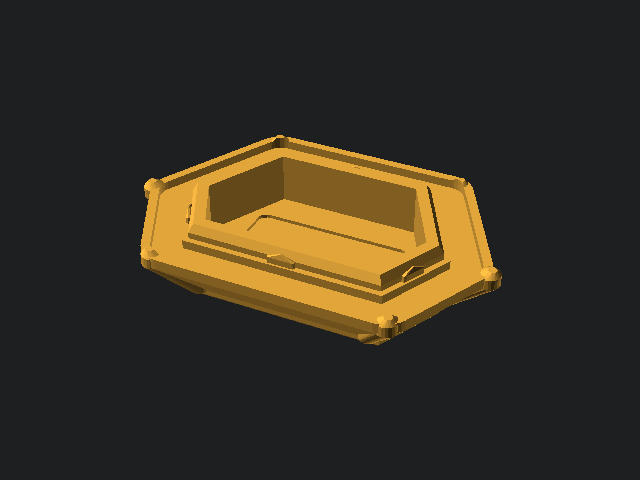
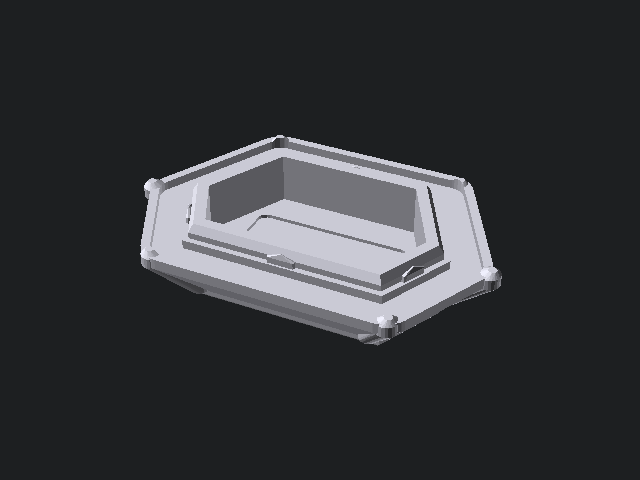
chore(print): add Tarnished Silver as the 6th spool, music box body, lid and key are silver

Changed region(s): [[0.2188, 0.2812, 0.7812, 0.7188]]

diff --git a/tools/prop-mockups/3d.html b/tools/prop-mockups/3d.html
@@ -201,7 +201,7 @@
   <div class="summary-bar">
     <div class="stat"><strong>44 STLs</strong><span>All verified watertight, 2-manifold, support-free</span></div>
     <div class="stat"><strong>&le; 180 &times; 180 mm</strong><span>Fits Bambu A1 Mini, Prusa MINI+, Ender 3</span></div>
-    <div class="stat"><strong>5 Spool Colours</strong><span>Iron, Brass, Mint, Bone, Wood</span></div>
+    <div class="stat"><strong>6 Spool Colours</strong><span>Iron, Brass, Mint, Bone, Wood, Silver</span></div>
     <div class="stat"><strong>0.4 mm Pockets</strong><span>Recessed 1:1 SVG stickers never peel at edges</span></div>
     <div class="stat"><strong>SG90 + ESP32</strong><span>Built-in servo cradles, keyed horn recesses &amp; DevKitC V4 mounts</span></div>
   </div>
@@ -261,17 +261,18 @@ const SPOOLS = {
   brass:      { name: "Antique Brass",    bg: "#d4a84b", fg: "#181209" },
   mint:       { name: "Ectoplasm Mint",   bg: "#5ce6b8", fg: "#092118" },
   bone:       { name: "Bone / Ivory",     bg: "#e8dec8", fg: "#1b181f" },
+  silver:     { name: "Tarnished Silver", bg: "#c9c9d4", fg: "#181820" },
   wood:       { name: "Warm Wood",        bg: "#422818", fg: "#f5eadc" },
 };
 
 const RELICS = [
-  ["relic-music-box",    "iron",   "44.9 × 27.4 × 27.9 mm", "Relic r1 (body): From-scratch Dark Iron gothic coffin casket with 41° faceted pedestal flare, 6 corner buttresses, continuous front arch keyhole shield, 38° open-diamond bat-wing crank key, 5-chime comb on flush bed, octagonal drum, bevel gear & Ø14.6 mm foot / 6 mm socket."],
-  ["relic-music-box-lid","brass",  "42.1 × 28.5 × 9.0 mm",  "Relic r1 (lid): Contrasting Antique Brass mansard coffin lid printed upside-down with V-carved crown inlay, overhanging drip skirt + 6 gargoyle corner eaves, 4-rib slip-fit collar, finger-lift coves & underside 18.2×9.2 mm score pocket."],
+  ["relic-music-box",    "silver",   "44.9 × 27.4 × 27.9 mm", "Relic r1 (body): From-scratch Tarnished Silver gothic coffin casket with 41° faceted pedestal flare, 6 corner buttresses, continuous front arch keyhole shield, 38° open-diamond bat-wing crank key, 5-chime comb on flush bed, octagonal drum, bevel gear & Ø14.6 mm foot / 6 mm socket."],
+  ["relic-music-box-lid","silver",  "42.1 × 28.5 × 9.0 mm",  "Relic r1 (lid): Tarnished Silver mansard coffin lid printed upside-down with V-carved crown inlay, overhanging drip skirt + 6 gargoyle corner eaves, 4-rib slip-fit collar, finger-lift coves & underside 18.2×9.2 mm score pocket."],
   ["relic-wax-hand",     "bone",   "24.6 × 17.6 × 51.4 mm", "Relic r2: Sculpted anatomical palmistry hand with blended tendons, MCP knuckles, segmented fingers, fingernails, palm pocket & centre socket."],
   ["relic-locket",       "brass",  "31.5 × 18.0 × 50.0 mm", "Relic r3 (back bowl): Hinged oval locket stand with vaulted keepsake hollow, lower Ø2.15 mm filament hinge knuckle, clasp catch & centre socket."],
   ["relic-locket-lid",   "brass",  "33.7 × 35.4 × 5.3 mm",  "Relic r3 (front door): Separate hinged cameo lid with crooked gothic crown crest, coaxial Ø2.15 mm filament hinge bore, beaded pearls, snap-clasp & 16×22 mm cameo pocket."],
   ["relic-planchette",   "wood",   "28.8 × 18.4 × 43.5 mm", "Relic r4: Heart-shaped spirit-board pointer with twin crooked gothic upper horn curls pointing down on a short post, with magnifier oculus & 6 mm centre socket."],
-  ["relic-silver-key",   "brass" , "20.2 × 18.0 × 46.7 mm", "Relic r5: Gothic skeleton key with diamond pierced bow, shoulder thorns, skewed crown spire, collared stem, notched ward bit & centre connector."],
+  ["relic-silver-key",   "silver", "20.2 × 18.0 × 46.7 mm", "Relic r5: Gothic skeleton key with diamond pierced bow, shoulder thorns, skewed crown spire, collared stem, notched ward bit & centre connector."],
   ["relic-bell",         "brass",  "28.0 × 28.0 × 47.6 mm", "Relic r6: Flared Victorian service bell with solid flared body, turned handle & centre connector."],
   ["relic-token-pocket", "iron",   "43.6 × 43.6 × 9.0 mm",  "Universal 40×40 mm rounded token base with 4 splayed corner iron lug ears, rim V-notches, 0.4 mm top QR sticker pocket & Ø5.6 mm centre peg for the Relics' sockets (punch a 6 mm hole in the QR sticker)."],
 ];

diff --git a/tools/prop-mockups/viewer.html b/tools/prop-mockups/viewer.html
@@ -83,12 +83,13 @@ const STL_BASE = new URLSearchParams(location.search).get('stl') || (location.pa
 // Reference models (not printed) live next to the STL folder: print/reference/ in the repo, reference/ on the lab.
 const REF_BASE = location.pathname.includes('/tools/') ? '../../print/reference/' : 'reference/';
 
-// The 5 print spools.
+// The 6 print spools.
 const SPOOLS = {
   iron:       { name: 'Dark Iron',        hex: '#262229' },
   brass:      { name: 'Antique Brass',    hex: '#d4a84b' },
   mint:       { name: 'Ectoplasm Mint',   hex: '#5ce6b8' },
   bone:       { name: 'Bone / Ivory',     hex: '#e8dec8' },
+  silver:     { name: 'Tarnished Silver', hex: '#c9c9d4' },
   wood:       { name: 'Warm Wood',        hex: '#422818' },
 };
 const KIND = { M: 'Mechanical: it moves', E: 'Electrical: it holds electronics', S: 'Static: no moving or electronic parts', R: 'Reference model: shown for comparison, not printed' };
@@ -98,13 +99,13 @@ const G0 = 'Core game pieces', G1 = '#1 Ghost in the box', G3 = '#3 Haunt needle
       G9 = '#9 Curtain reveal', G12 = '#12 Rattle bats', G15 = '#15 Relic vault', G20 = '#20 Cut wires board', GR = 'Reference (not printed)',
       GX = 'Stand-alone figures';
 const PARTS = [
-  ['relic-music-box',   'Relic r1 music box',      G0, 'iron',       'S', 1],
-  ['relic-music-box-lid','Relic r1 music box lid', G0, 'brass',      'S', 1],
+  ['relic-music-box',   'Relic r1 music box',      G0, 'silver',      'S', 1],
+  ['relic-music-box-lid','Relic r1 music box lid', G0, 'silver',      'S', 1],
   ['relic-wax-hand',    'Relic r2 wax hand',       G0, 'bone',       'S', 1],
   ['relic-locket',      'Relic r3 locket',         G0, 'brass',      'S', 1],
   ['relic-locket-lid',  'Relic r3 locket lid',     G0, 'brass',      'S', 1],
   ['relic-planchette',  'Relic r4 planchette',     G0, 'wood',       'S', 1],
-  ['relic-silver-key',  'Relic r5 silver key',     G0, 'brass',     'S', 1],
+  ['relic-silver-key',  'Relic r5 silver key',     G0, 'silver',    'S', 1],
   ['relic-bell',        'Relic r6 bell',           G0, 'brass',      'S', 1],
   ['relic-token-pocket','Relic Token base',        G0, 'iron',       'S', 6],
   ['pyramid-holder',    'Pyramid holder',          G0, 'iron',       'S', 1],

diff --git a/print/README.md b/print/README.md
@@ -24,15 +24,16 @@ Every model in `print/scad/` and `print/stl/` is authored to print cleanly on a 
 
 ## 2. Filament & Preview Palette
 
-The 45-piece collection prints from **5 PLA spools**: Dark Iron, Antique Brass, Ectoplasm Mint, Bone / Ivory and Warm Wood. The six Suspect standees are all Bone; their seat colours (`s1`–`s6`) go on with paint pens or the optional name strip.
+The 45-piece collection prints from **6 PLA spools**: Dark Iron, Antique Brass, Ectoplasm Mint, Bone / Ivory, Warm Wood and Tarnished Silver. The six Suspect standees are all Bone; their seat colours (`s1`–`s6`) go on with paint pens or the optional name strip.
 
 | Spool Name | Role / `design/tokens.json` Match | Hex | Recommended Filament | Used For |
 |---|---|---|---|---|
-| **Dark Iron** | `ink` (`#0b0d10`) | `#262229` | Matte Charcoal / Galaxy Black PLA | Music box body (`r1`), dial plate, 2-seat flipper plinth, curtain rail & pulley, curtain panels (#9), bat mobile, relic tray, cut-wires panel, pyramid holder, relic token pocket, lever arm |
-| **Antique Brass** | `lantern` (`#e0a43a`) | `#d4a84b` | Silk Brass / Antique Gold PLA | Music box lid (`r1`), locket body & lid (`r3`), séance bell (`r6`), dial bezel & needle (#3), stage screen bezel (#9), chandelier (#12), vault clasp (#15), terminal blocks (#20), silver skeleton key (`r5`), MAX tab (#3), resistor plug heads (#20) |
+| **Dark Iron** | `ink` (`#0b0d10`) | `#262229` | Matte Charcoal / Galaxy Black PLA | dial plate, 2-seat flipper plinth, curtain rail & pulley, curtain panels (#9), bat mobile, relic tray, cut-wires panel, pyramid holder, relic token pocket, lever arm |
+| **Antique Brass** | `lantern` (`#e0a43a`) | `#d4a84b` | Silk Brass / Antique Gold PLA | locket body & lid (`r3`), séance bell (`r6`), dial bezel & needle (#3), stage screen bezel (#9), chandelier (#12), vault clasp (#15), terminal blocks (#20), MAX tab (#3), resistor plug heads (#20) |
 | **Ectoplasm Mint** | `ghost` (`#9fe8d0`) | `#5ce6b8` | Translucent Mint / Glow Green PLA | Pop-up ghost figure (#1), translucent Resolve pip diffuser inserts (#5) |
 | **Bone / Ivory** | `bone` (`#e9e4d8`) | `#e8dec8` | Matte Bone White / Warm Ivory PLA | Wax hand (`r2`), haunting flipper pawns (#5), porcelain doll (#12), all 6 Suspect standees |
 | **Warm Wood** | `leather` (`#6b4d33`) | `#422818` | Wood-Fill PLA or Matte Walnut Brown PLA | Ghost chest body & lid (#1), planchette (`r4`), stage proscenium frame (#9), beam bracket (#12), relic vault chest, lid & keypad pod (#15) |
+| **Tarnished Silver** | Metallic silver | `#c9c9d4` | Silk Silver / Pewter Grey PLA | Music box body & lid (`r1`), silver skeleton key (`r5`) |
 
 ---
 
@@ -44,13 +45,13 @@ All 45 compiled binary STL files live in [`print/stl/`](./stl/) (and are mirrore
 
 | STL File | Piece Description | Dimensions (`X × Y × Z mm`) | Spool | Print Orientation | Supports | Sticker Sheet / Notes |
 |---|---|---|---|---|---|---|
-| `relic-music-box.stl` | Relic `r1` (body): From-scratch Dark Iron gothic coffin casket with `<= 41°` faceted pedestal flare & waist girdle, 6 tapered corner buttresses, continuous front arch shield corbel + rivets, sculpted `38°` open-diamond bat-wing crank key, 5-chime stepped comb on solid flush bed, V-cradled octagonal pinned drum, 8-tooth bevel drive gear & `Ø14.6 mm` foot with `Ø6.1 mm` socket | `44.9 × 27.4 × 27.9` | Dark Iron | Foot flat on bed (`+Z` up) | None (`<= 42°` flare, key & panel) | `stickers-relics-and-standees.svg` (`15.6×6.6` keyhole) |
-| `relic-music-box-lid.stl` | Relic `r1` (lid): Contrasting Antique Brass mansard coffin roof lid printed upside-down with `<= 42.5°` flare, V-carved coffin frame & cross inlay in crown, overhanging drip skirt (`+0.45 mm/side` rim clearance) & 6 gargoyle corner eaves, self-centering `45°` plug collar (`0.10 mm` slip ribs, seats at `Z = 34.4 mm` closed), fingernail-lift coves & underside `18.2×9.2 mm` pocket | `42.1 × 28.5 × 9.0` | Antique Brass | Crown flat on bed (upside-down, pocket up) | None (`<= 42.5°` mansard & V-carve) | `stickers-relics-and-standees.svg` (`17.6×8.6` lid score) |
+| `relic-music-box.stl` | Relic `r1` (body): From-scratch Tarnished Silver gothic coffin casket with `<= 41°` faceted pedestal flare & waist girdle, 6 tapered corner buttresses, continuous front arch shield corbel + rivets, sculpted `38°` open-diamond bat-wing crank key, 5-chime stepped comb on solid flush bed, V-cradled octagonal pinned drum, 8-tooth bevel drive gear & `Ø14.6 mm` foot with `Ø6.1 mm` socket | `44.9 × 27.4 × 27.9` | Tarnished Silver | Foot flat on bed (`+Z` up) | None (`<= 42°` flare, key & panel) | `stickers-relics-and-standees.svg` (`15.6×6.6` keyhole) |
+| `relic-music-box-lid.stl` | Relic `r1` (lid): Tarnished Silver mansard coffin roof lid printed upside-down with `<= 42.5°` flare, V-carved coffin frame & cross inlay in crown, overhanging drip skirt (`+0.45 mm/side` rim clearance) & 6 gargoyle corner eaves, self-centering `45°` plug collar (`0.10 mm` slip ribs, seats at `Z = 34.4 mm` closed), fingernail-lift coves & underside `18.2×9.2 mm` pocket | `42.1 × 28.5 × 9.0` | Tarnished Silver | Crown flat on bed (upside-down, pocket up) | None (`<= 42.5°` mansard & V-carve) | `stickers-relics-and-standees.svg` (`17.6×8.6` lid score) |
 | `relic-wax-hand.stl` | Relic `r2`: Sculpted anatomical palmistry hand with curved palmar pads, blended dorsal extensor tendons, arched MCP knuckles, segmented flexed fingers, fingernails, palm medallion pocket & `Ø6.1 mm` centre socket (drip real candle wax after printing) | `24.6 × 17.6 × 51.4` | Bone / Ivory | Foot flat on bed (`+Z` up) | None (`<= 22°` finger pitch) | `stickers-relics-and-standees.svg` (`10.6 mm` dia palm eye medallion) |
 | `relic-locket.stl` | Relic `r3` (back bowl): Hinged Victorian oval locket stand with `45°` vaulted keepsake hollow, heirloom rosette back, `<= 42°` corbelled lower `Ø2.15 mm` hinge knuckle (for a `1.75 mm` PLA filament hinge pin), right detent bead, teardrop bail & `Ø6.1 mm` centre socket | `31.5 × 18.0 × 50.0` | Antique Brass | Foot flat on bed (`+Z` up) | None (`<= 44°` scroll & vaulted bowl) | Opens/closes on a `1.75 mm` filament hinge pin with `relic-locket-lid.stl` |
 | `relic-locket-lid.stl` | Relic `r3` (front door): Separate hinged cameo front cover with crooked gothic crown crest, `45°` domed cavity, coaxial `Ø2.15 mm` upper hinge knuckle (`1.75 mm` filament pin), elastic thumb snap-clasp, 18 pearl beads & `16×22 mm` cameo pocket | `33.7 × 35.4 × 5.3` | Antique Brass | Flat parting rim on bed (`+Z` up) | None (teardrop bore & `45°` inner dome) | `stickers-relics-and-standees.svg` (`15.6×21.6` oval cameo portrait) |
 | `relic-planchette.stl` | Relic `r4`: Heart-shaped spirit-board pointer with twin crooked gothic upper horn curls pointing down on a short post with magnifier oculus & a `Ø6.1 mm` centre socket in a flat `Ø14.6 mm` foot (no base plate) | `28.8 × 18.4 × 43.5` | Warm Wood | Foot flat on bed (`+Z` up) | None (the heart stands on its point) | `stickers-relics-and-standees.svg` (`22×26` sun/moon scroll border) |
-| `relic-silver-key.stl` | Relic `r5`: Gothic skeleton key with diamond pierced bow, shoulder thorns, skewed crown spire, collared stem, notched ward bit & a `Ø6.1 mm` centre socket in a flat `Ø14.6 mm` foot (no base plate) | `20.2 × 18.0 × 46.7` | Antique Brass | Foot flat on bed (`+Z` up) | None (`45°` chamfer under bit & bow) | `stickers-relics-and-standees.svg` (`13.6×7.6` oval crest) |
+| `relic-silver-key.stl` | Relic `r5`: Gothic skeleton key with diamond pierced bow, shoulder thorns, skewed crown spire, collared stem, notched ward bit & a `Ø6.1 mm` centre socket in a flat `Ø14.6 mm` foot (no base plate) | `20.2 × 18.0 × 46.7` | Tarnished Silver | Foot flat on bed (`+Z` up) | None (`45°` chamfer under bit & bow) | `stickers-relics-and-standees.svg` (`13.6×7.6` oval crest) |
 | `relic-bell.stl` | Relic `r6`: Flared Victorian service bell with solid flared body, turned handle & a `Ø6.1 mm` centre socket in a flat `Ø14.6 mm` foot (no base plate) | `28.0 × 28.0 × 47.6` | Antique Brass | Foot flat on bed (`+Z` up) | None (self-supporting internal bell arch) | `stickers-relics-and-standees.svg` (`13.6×5.6` `"AWAKE"` band) |
 | `relic-ghost.stl` | Relic-sized ghost: smooth solid with deep eye sockets (3.6 mm) on the standard relic foot. Made from the optimised ghost by `tools/ghost-print/make-ghost-print.py` | `36.7 × 20.6 × 48.2` | Bone / Ivory | Foot flat on bed (`+Z` up) | None | none |
 | `relic-token-pocket.stl` | Universal `40×40 mm` rounded token base with 4 splayed corner iron lug ears, rim V-notches, `36.4×36.4×0.4 mm` top QR sticker pocket & central `Ø5.6 mm` peg (3 mm tall) that the Relics' sockets drop onto | `43.6 × 43.6 × 9.0` | Dark Iron | Bottom flat on bed (`+Z` up); print `6×` | None | Stick one `36×36 mm` QR sticker (`hw:r1`–`hw:r6`) from `tools/prop-mockups/qr/` and punch a `Ø6 mm` hole in its middle so the peg comes through (the codes are Version 1, level Q; tested 6 of 6 scan with a hole of 6, 6.5 or 7 mm, 0 of 6 at 14 mm) |
